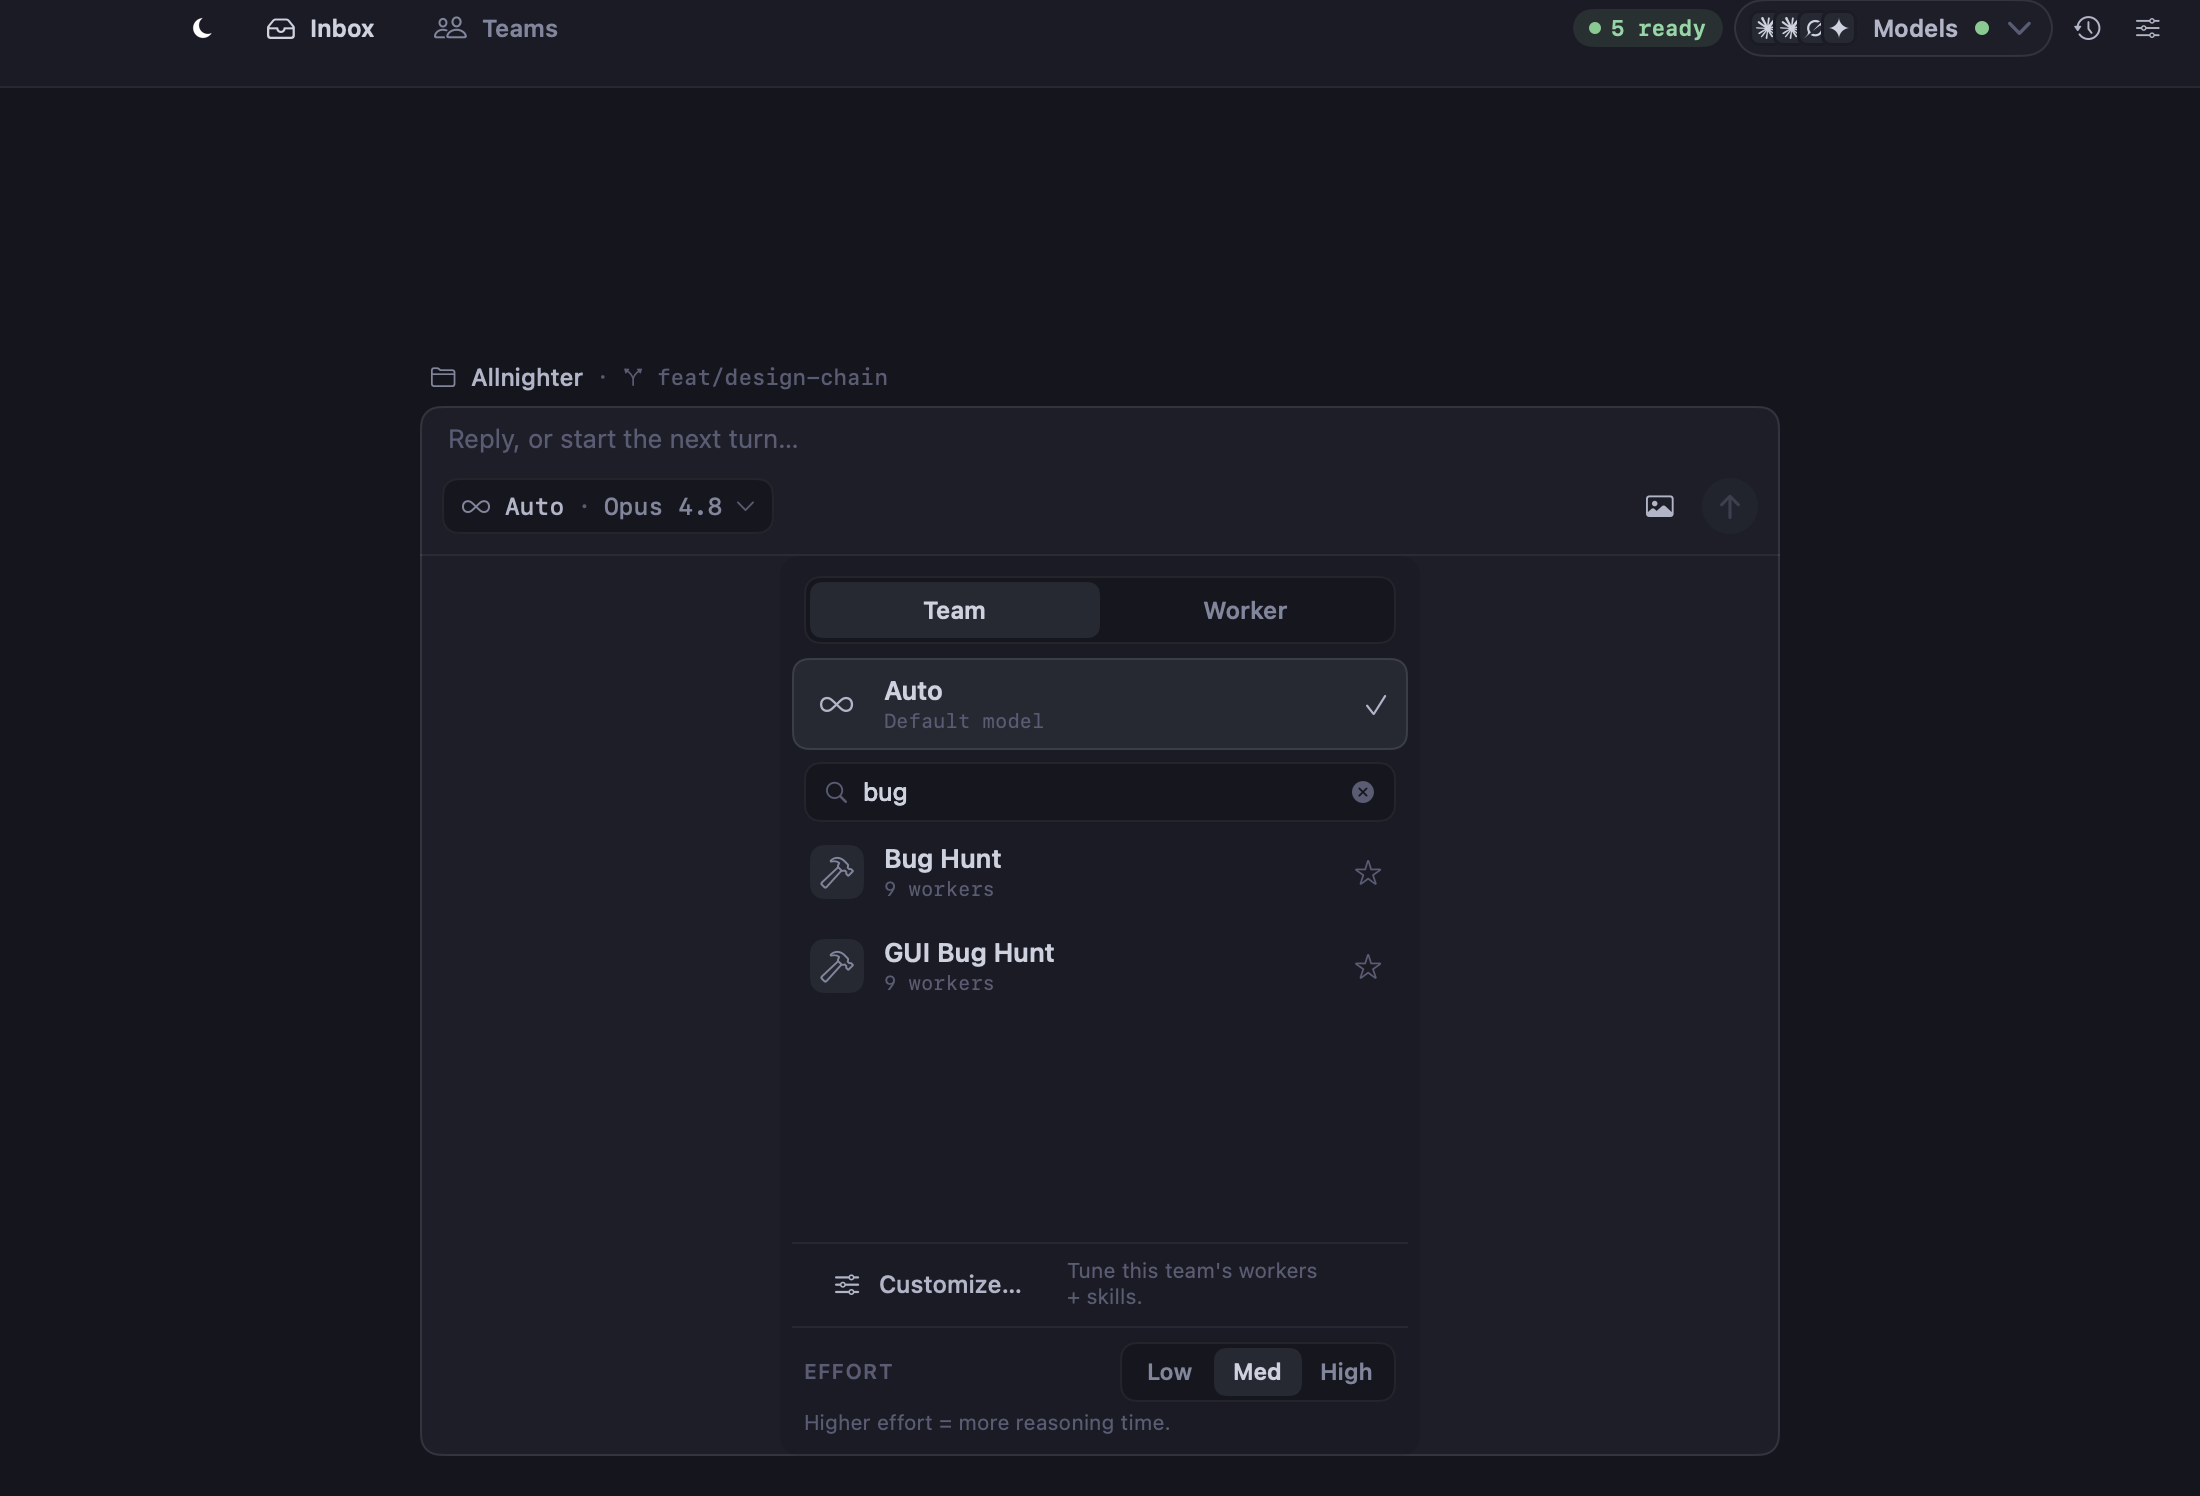
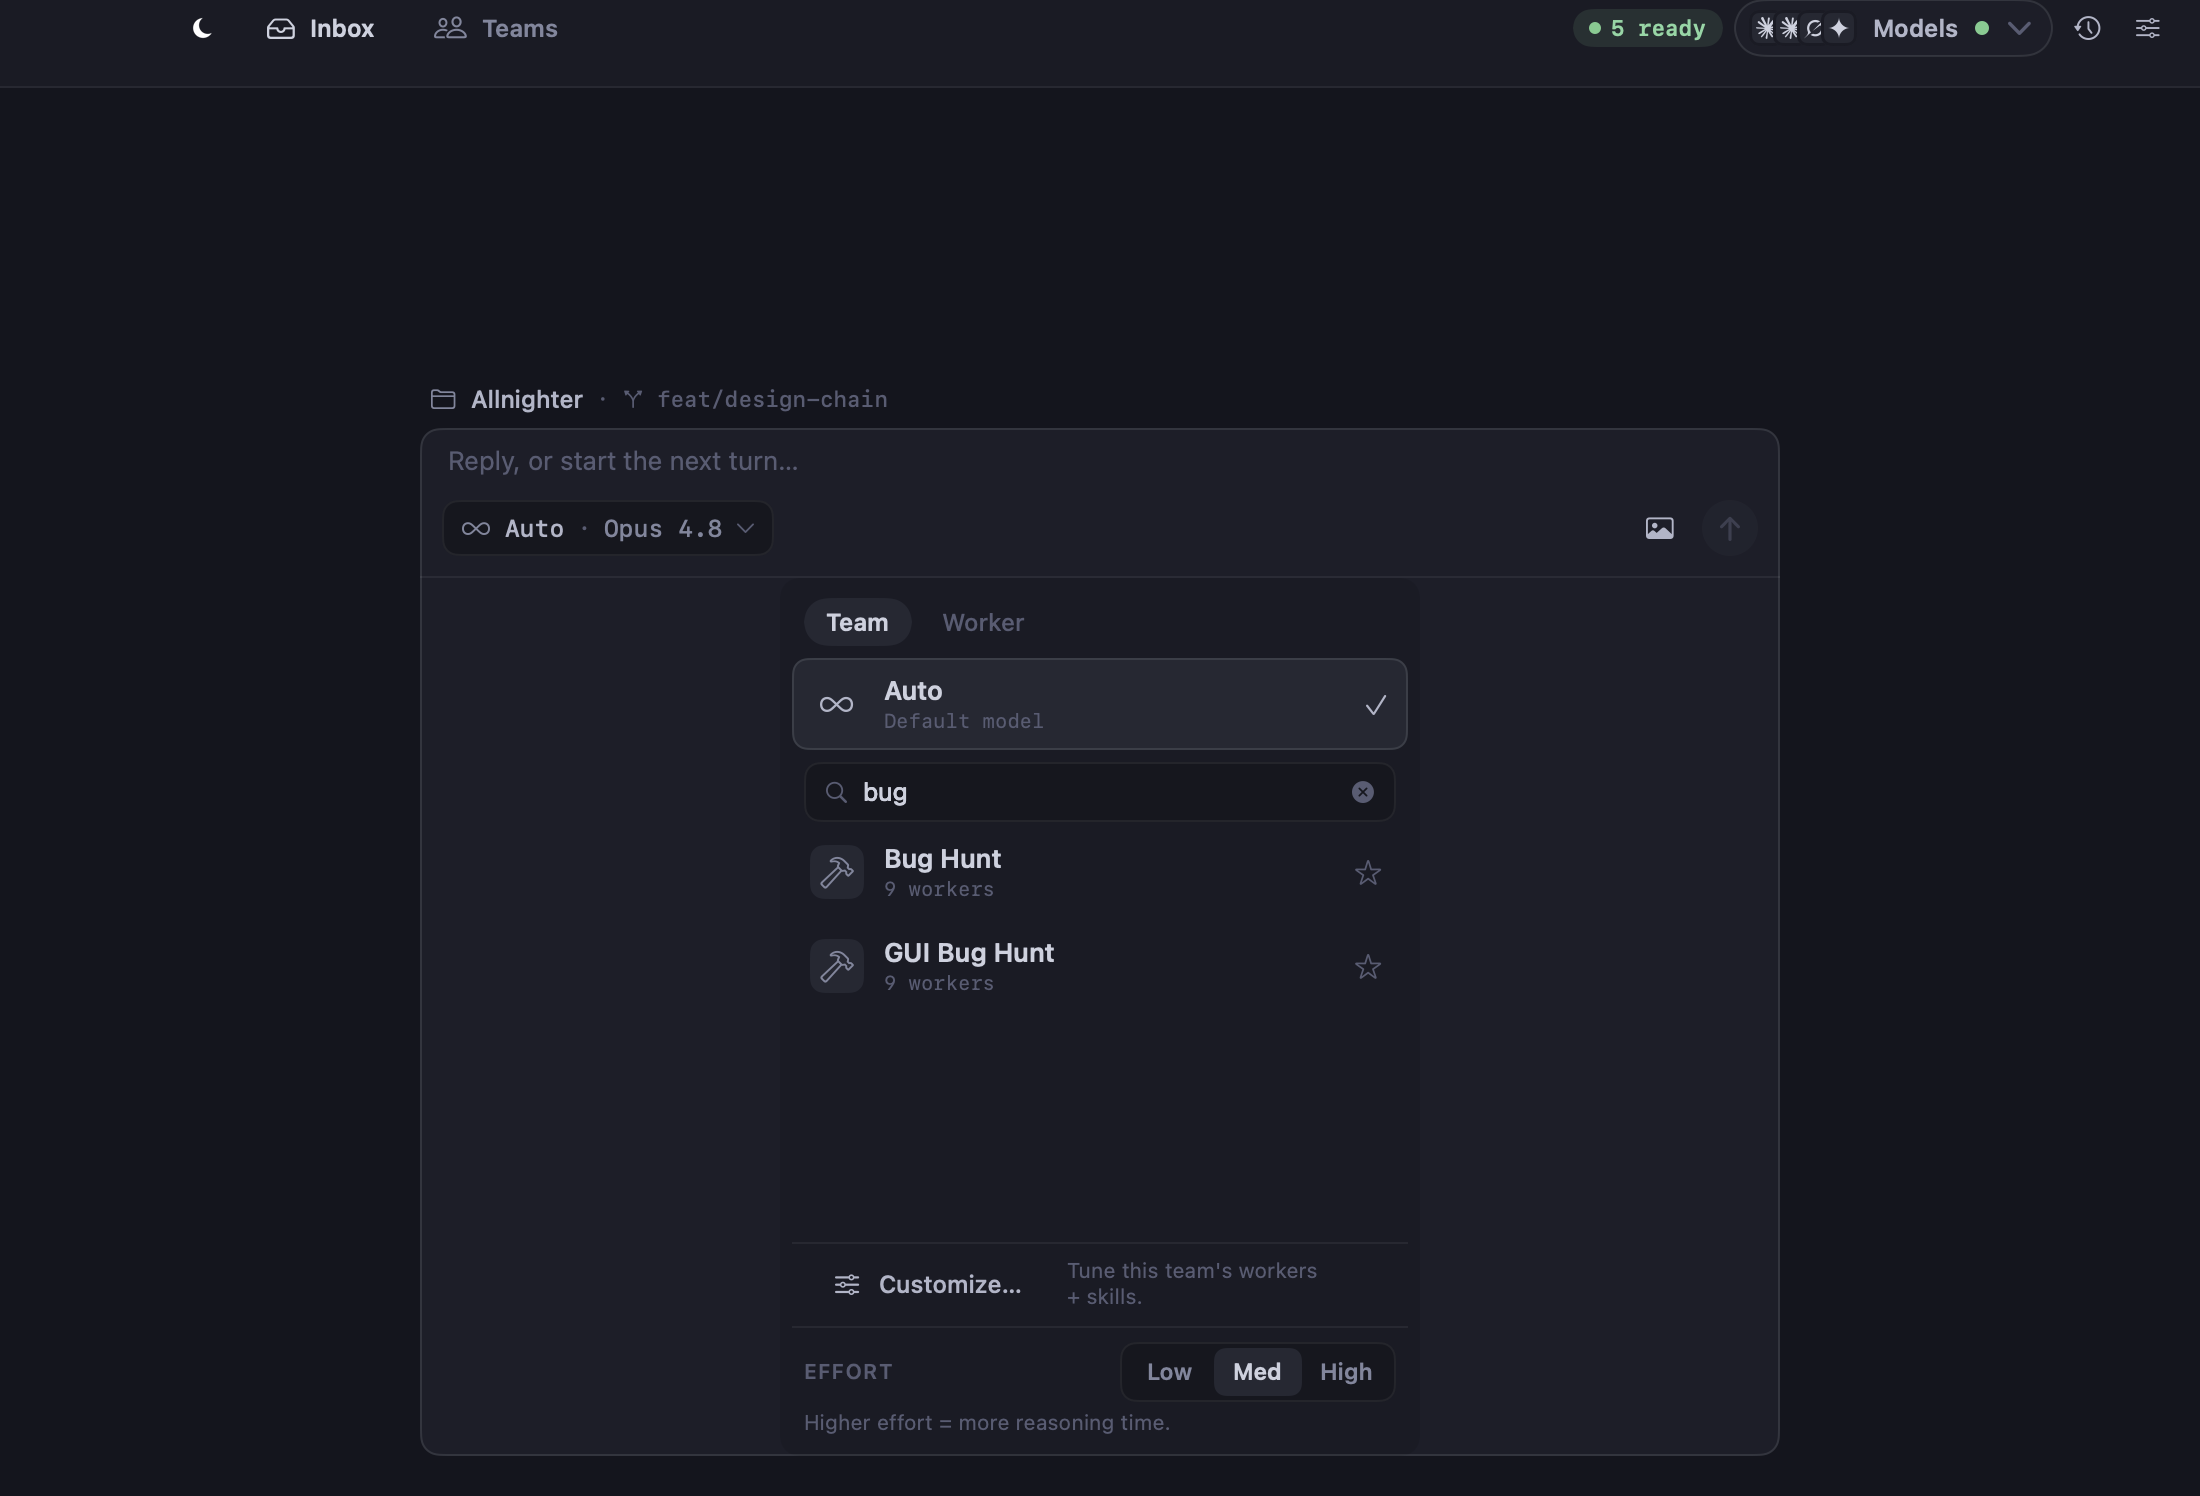
fix(composer): Team/Worker toggle hit-target + lighter style
The unselected segment used a Color.clear background, which SwiftUI does not
hit-test, so only the text glyph was tappable (looked like a bug). Added an
explicit contentShape(Rectangle()) so the whole tab is the hit target. Also
lightened the control per founder: dropped the boxed track + border and the
full-width segments for two quiet left-aligned text tabs (selected carries a
subtle pill, unselected is muted). Re-sealed composer/team-picker proof.

diff --git a/Apps/AllnighterMac/Sources/RoutingComposer.swift b/Apps/AllnighterMac/Sources/RoutingComposer.swift
@@ -704,24 +704,27 @@ struct RoutingComposer: View {
         .background(ALColor.surface)
     }
 
-    // One toggle, two forms — Team OR Worker, never both stacked (the old overflow).
+    // One toggle, two forms — Team OR Worker. Lightened from the boxed segmented control
+    // to two quiet text tabs (no outer track/border); the selected one carries a subtle
+    // pill. The WHOLE tab is the hit target — `Color.clear` isn't hit-tested, so without
+    // an explicit `contentShape` only the glyph was tappable.
     private var targetTabs: some View {
-        HStack(spacing: 0) {
+        HStack(spacing: 4) {
             ForEach([TargetTab.team, .worker], id: \.self) { tab in
+                let selected = tab == targetTab
                 Button { targetTab = tab } label: {
                     Text(tab == .team ? "Team" : "Worker")
-                        .font(.system(size: 12, weight: .semibold))
-                        .foregroundStyle(tab == targetTab ? ALColor.textPrimary : ALColor.textMuted)
-                        .frame(maxWidth: .infinity).frame(height: 28)
-                        .background(tab == targetTab ? ALColor.active : Color.clear, in: RoundedRectangle(cornerRadius: ALRadius.sm))
+                        .font(.system(size: 12, weight: selected ? .semibold : .medium))
+                        .foregroundStyle(selected ? ALColor.textPrimary : ALColor.textFaint)
+                        .padding(.horizontal, 11).frame(height: 24)
+                        .background(selected ? ALColor.active : Color.clear, in: Capsule())
+                        .contentShape(Rectangle())
                 }
                 .buttonStyle(.plain)
             }
+            Spacer(minLength: 0)
         }
-        .padding(3)
-        .background(ALColor.subtle, in: RoundedRectangle(cornerRadius: ALRadius.md))
-        .overlay { RoundedRectangle(cornerRadius: ALRadius.md).strokeBorder(ALColor.borderSubtle, lineWidth: 1) }
-        .padding(.horizontal, 6).padding(.top, 4).padding(.bottom, 7)
+        .padding(.horizontal, 6).padding(.top, 4).padding(.bottom, 6)
     }
 
     private func popHeader(_ title: String, _ sub: String) -> some View {

diff --git a/docs/qa/gui/composer/2026-06-20-team-picker/watcher.md b/docs/qa/gui/composer/2026-06-20-team-picker/watcher.md
@@ -6,9 +6,11 @@ Command: bash scripts/gui_proof.sh compose-target-inline
 ## VERDICT: PASS
 
 All expected elements present, correct top-to-bottom order, unclipped, non-overlapping:
-chip reads "Auto · Opus 4.8" · Team/Worker tabs · Auto/Default model (checked) · search
-field with "Bug" + clear · two results (Bug Hunt, GUI Bug Hunt) with stars · Customize…
-footer · Effort row. NO craft chips anywhere.
+chip reads "Auto · Opus 4.8" · LIGHTENED Team/Worker tabs (quiet text tabs, selected
+carries a subtle pill, no boxed track/border — whole tab is the hit target via
+contentShape) · Auto/Default model (checked) · search field with "Bug" + clear · two
+results (Bug Hunt, GUI Bug Hunt) with stars · Customize… footer · Effort row. NO craft
+chips anywhere.
 
 P1 — broken (blocks):
 - none
